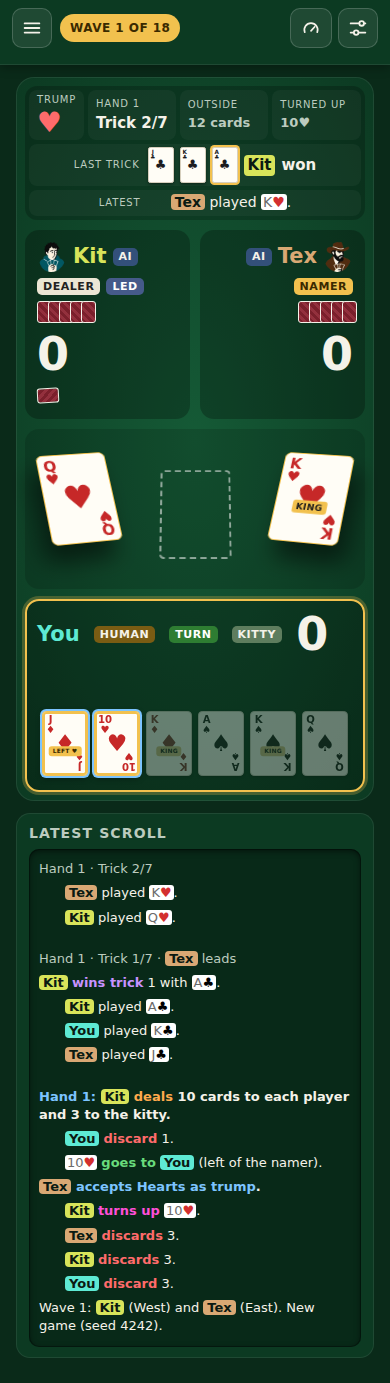
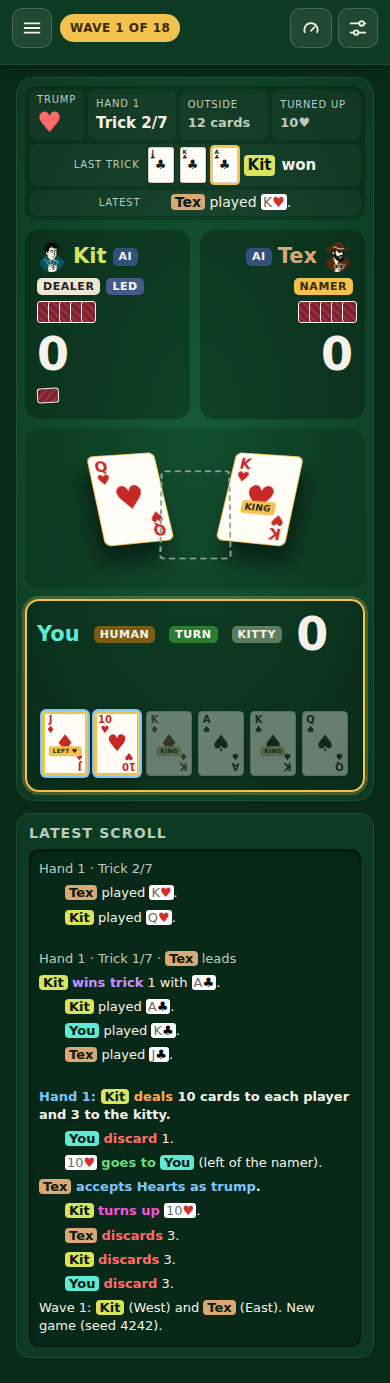
Let the bot trick cards' inner corners touch your space
Each bot card stays on its own side, and its inner corner just crosses
into your space, so the play-order stacking shows.

Claude-Session: https://claude.ai/code/session_01QkpazkapUFZWg4SWZB1dDA

Changed region(s): [[0.5538, 0.3109, 0.9231, 0.4042], [0.0923, 0.3109, 0.4615, 0.4042]]

diff --git a/index.html b/index.html
@@ -2066,7 +2066,7 @@ const UI_PROFILE_ADVANCED = Object.freeze({
   '.who': { kind: 'L, S', show: 'Hidden. The slot\'s position shows who played.', click: null },
   '.summary': { kind: 'S, R', show: 'As now.', click: 'Its Continue button moves on, as now.' },
   '.meta': { kind: 'R', show: 'As now.', click: null },
-  '.trick': { kind: 'S', show: 'As now: one slot per seat, your slot lower than the bot slots, as at a real table. The trick cards are in 3D: the table tilts away from you, each bot card turns to face your slot, and every card lifts with a soft shadow. All trick cards, and your dashed space, are 1.5 times the base card size. Each bot card lies on its own side of the trick, toward its seat, so it reads as played from that seat; the cards overlap only where the space is narrow. Stacking follows play order: each card lies above the cards played before it, and your dashed space, while you still have to play, lies above every card: an outline only, no fill, in a mid tone that shows on the felt and on the cards. A bot that has not played yet shows no placeholder. Reduced motion keeps the pose but drops the transition. At trick end the cards slide to the winner\'s won-trick stack.', click: 'Skips the trick-end wait, as now.', issue: 53 },
+  '.trick': { kind: 'S', show: 'As now: one slot per seat, your slot lower than the bot slots, as at a real table. The trick cards are in 3D: the table tilts away from you, each bot card turns to face your slot, and every card lifts with a soft shadow. All trick cards, and your dashed space, are 1.5 times the base card size. Each bot card lies on its own side of the trick, toward its seat, so it reads as played from that seat; its inner corner just crosses into your space, subtly but clearly. Stacking follows play order: each card lies above the cards played before it, and your dashed space, while you still have to play, lies above every card: an outline only, no fill, in a mid tone that shows on the felt and on the cards. A bot that has not played yet shows no placeholder. Reduced motion keeps the pose but drops the transition. At trick end the cards slide to the winner\'s won-trick stack.', click: 'Skips the trick-end wait, as now.', issue: 53 },
   'table.stats': { kind: 'R', show: 'As now.', click: null },
   '.status': { kind: 'S', show: 'Hidden on screen. #liveStatus still reads the full sentence to screen readers.', click: null, issue: 53 },
   '.lasttrick': { kind: 'R', show: 'Hidden in the center. The Last trick cell of the information strip shows it.', click: null, issue: 53 },

diff --git a/mockups/advanced.js b/mockups/advanced.js
@@ -47,8 +47,8 @@ const css = `
 .trick .slot .card,.trick .slot .empty{--w:calc(var(--cw)*1.22);width:var(--w);height:calc(var(--w)*1.4);transition:transform .3s}
 .trick .slot .card,.trick .slot .empty{--w:calc(var(--cw)*1.5)!important}
 .trick .slot{position:relative}
-.trick .slot-1{justify-self:start;margin-left:calc(var(--cw)*.1)}
-.trick .slot-2{justify-self:end;margin-right:calc(var(--cw)*.1)}
+.trick .slot-1{justify-self:end;margin-right:calc(var(--cw)*-.22)}
+.trick .slot-2{justify-self:start;margin-left:calc(var(--cw)*-.22)}
 .trick .slot .empty{background:none;border-color:#8fa79a}
 .trick .slot-1 .empty,.trick .slot-2 .empty{visibility:hidden}
 .trick{min-height:calc(var(--cw)*3.3)!important}
